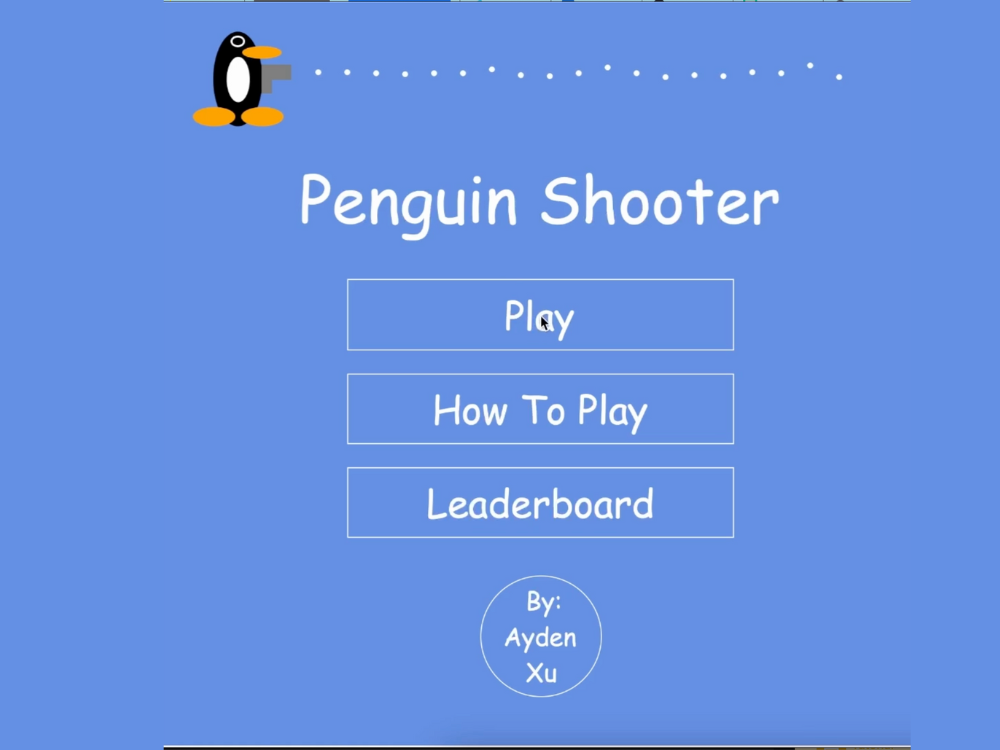
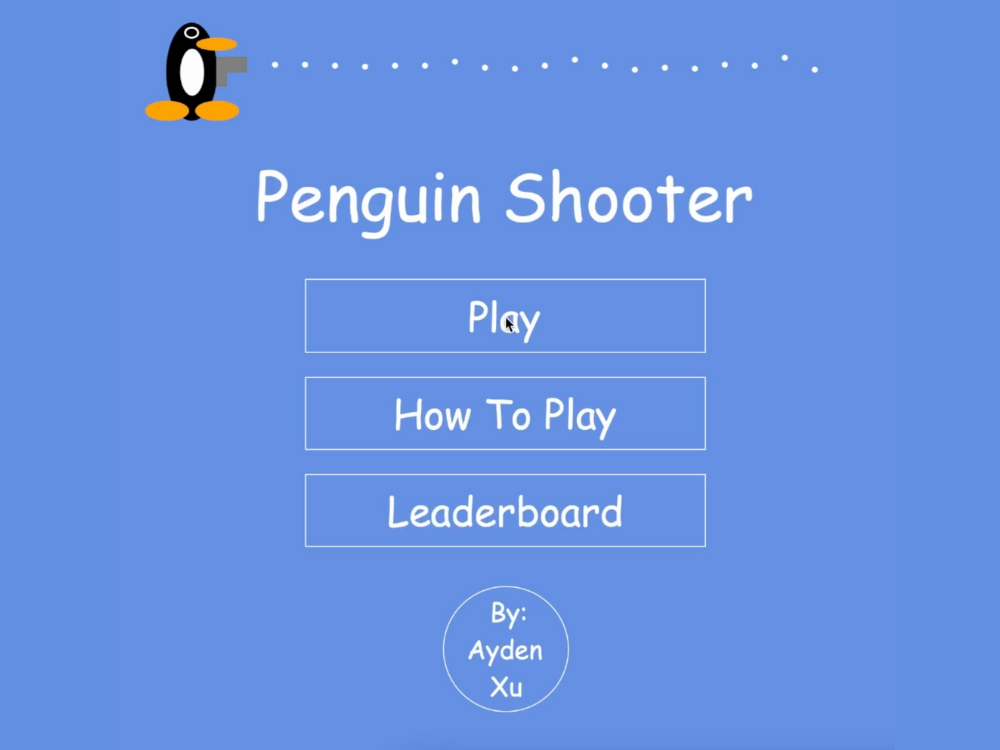
0817D

diff --git a/src/sections/MyProjects/myprojects.js b/src/sections/MyProjects/myprojects.js
@@ -38,7 +38,7 @@ const MyProjects = () => {
               icon: LaunchIcon,
             },
           ]}
-          image="https://github.com/aydengemz/MyPortfolio/blob/main/public/Untitled%20design%20(3).png?raw=true"
+          image="https://github.com/aydengemz/MyPortfolio/blob/main/public/genai.png?raw=true"
 
         />
         <ProjectCard
@@ -79,7 +79,7 @@ const MyProjects = () => {
               icon: YouTubeIcon,
             },
           ]}
-          image="https://github.com/aydengemz/MyPortfolio/blob/main/public/Untitled%20design%20(2).png?raw=true"
+          image="https://github.com/aydengemz/MyPortfolio/blob/main/public/penguinshooter.png?raw=true"
         ></ProjectCard>
       </div>
     </section>
